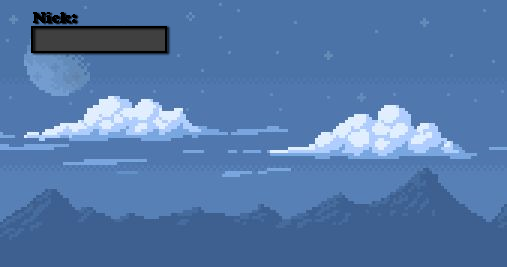
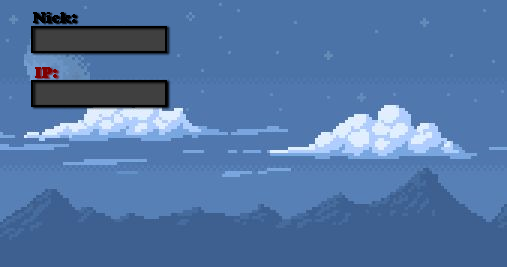
Networking.

Changed region(s): [[0.0592, 0.2397, 0.355, 0.4195]]

diff --git a/src/main/java/com/degoos/processing/game/object/MenuText.java b/src/main/java/com/degoos/processing/game/object/MenuText.java
@@ -7,35 +7,62 @@ import com.degoos.processing.engine.event.keyboard.KeyPressEvent;
 import com.degoos.processing.engine.object.Shape;
 import com.degoos.processing.engine.object.Text;
 import com.degoos.processing.game.Game;
-import com.degoos.processing.game.MapLoader;
 import com.flowpowered.math.vector.Vector2d;
 import java.awt.Color;
 
 public class MenuText extends Text {
 
 	private Shape background;
+	private boolean ipText, selected;
+	private MenuText other;
 
-	public MenuText(Shape background) {
-		super(true, 0, 0, "", new Vector2d(0.0771875, 0.83366), Color.PINK, 40, Game.getFont());
+	public MenuText(Shape background, boolean ipText, MenuText other) {
+		super(true, 0, 0, "", new Vector2d(0.0771875, ipText ? 0.63366 : 0.83366), ipText ? Color.PINK.darker() : Color.PINK, 40, Game.getFont());
 		Engine.getEventManager().registerListener(this);
 		this.background = background;
+		this.ipText = ipText;
+		this.other = other;
+		this.selected = !ipText;
 	}
 
+	public void setOther(MenuText other) {
+		this.other = other;
+	}
+
+	public boolean isSelected() {
+		return selected;
+	}
+
+	public void setSelected(boolean selected) {
+		this.selected = selected;
+	}
 
 	@Listener
 	public void onKeyPress(KeyPressEvent event) {
+		if (!selected) return;
+		if ((ipText && event.getKeyCode() == EnumKeyboardKey.UP) || (!ipText && event.getKeyCode() == EnumKeyboardKey.DOWN)) {
+			selected = false;
+			other.setSelected(true);
+			setColor(Color.PINK.darker());
+			other.setColor(Color.PINK);
+			return;
+		}
 		if (event.getKeyCode() == EnumKeyboardKey.MODIFIER_BUTTON_PRIMARY) return;
 		if (event.getKeyCode() == EnumKeyboardKey.ENTER) {
-			if (getText().isEmpty()) return;
+			if (getText().isEmpty() || other.getText().isEmpty()) return;
 			delete();
 			background.delete();
-			MapLoader.load();
+			other.delete();
+
+			String nick = ipText ? other.getText() : getText();
+			String ip = ipText ? getText() : other.getText();
+			Game.load(nick.replace("\uFFFF", ""), ip.replace("\uFFFF", ""));
 			return;
 		}
 		if (event.getKeyId() == 8) {
 			if (!getText().isEmpty()) setText(getText().substring(0, getText().length() - 1));
 		} else {
-			if (getText().length() < 16) setText(getText() + event.getKey());
+			if (getText().length() < (ipText ? 22 : 16)) setText(getText() + event.getKey());
 		}
 	}
 

diff --git a/src/main/java/com/degoos/processing/game/network/ServerConnection.java b/src/main/java/com/degoos/processing/game/network/ServerConnection.java
@@ -1,9 +1,32 @@
 package com.degoos.processing.game.network;
 
+import java.io.DataOutputStream;
 import java.net.Socket;
 
 public class ServerConnection {
 
 	private Socket socket;
+	private String nick;
+
+	public ServerConnection(String nick, String ip) {
+		this.nick = nick;
+		try {
+			String[] sl = ip.split(":");
+			socket = new Socket(sl[0], sl.length == 1 || !isInteger(sl[1]) ? 22222 : Integer.parseInt(sl[1]));
+			DataOutputStream outputStream = new DataOutputStream(socket.getOutputStream());
+			outputStream.writeUTF(nick);
+		} catch (Exception ex) {
+			ex.printStackTrace();
+		}
+	}
+
+	protected boolean isInteger(String string) {
+		try {
+			Integer.parseInt(string);
+			return true;
+		} catch (Exception ex) {
+			return false;
+		}
+	}
 
 }

diff --git a/src/main/java/com/degoos/processing/game/Game.java b/src/main/java/com/degoos/processing/game/Game.java
@@ -40,7 +40,18 @@ public class Game {
 		shape.addVertexWithUv(new Vector2d(1, 0), new Vector2i(1, 0));
 		shape.setVisible(true);
 
-		new MenuText(shape);
+		MenuText menuText = new MenuText(shape, false, null);
+		menuText.setOther(new MenuText(shape, true, menuText));
+	}
+
+	public static void load(String nick, String ip) {
+		if (ip.equalsIgnoreCase("local")) {
+			gameServer = new GameServer();
+			MapLoader.load();
+		}
+		else {
+
+		}
 	}
 
 	public static Camera getCamera() {

diff --git a/src/main/java/com/degoos/processing/game/network/packet/in/PacketInReleaseKey.java b/src/main/java/com/degoos/processing/game/network/packet/in/PacketInReleaseKey.java
@@ -10,6 +10,10 @@ public class PacketInReleaseKey extends Packet {
 
 	private EnumKeyboardKey keyboardKey;
 
+	public PacketInReleaseKey(EnumKeyboardKey keyboardKey) {
+		this.keyboardKey = keyboardKey;
+	}
+
 	public PacketInReleaseKey(DataInputStream stream) {
 		try {
 			keyboardKey = EnumKeyboardKey.getById(stream.readInt()).orElse(EnumKeyboardKey.UNDEFINED);

diff --git a/src/main/java/com/degoos/processing/game/network/packet/in/PacketInPressKey.java b/src/main/java/com/degoos/processing/game/network/packet/in/PacketInPressKey.java
@@ -10,6 +10,10 @@ public class PacketInPressKey extends Packet {
 
 	private EnumKeyboardKey keyboardKey;
 
+	public PacketInPressKey(EnumKeyboardKey keyboardKey) {
+		this.keyboardKey = keyboardKey;
+	}
+
 	public PacketInPressKey(DataInputStream stream) {
 		try {
 			keyboardKey = EnumKeyboardKey.getById(stream.readInt()).orElse(EnumKeyboardKey.UNDEFINED);
